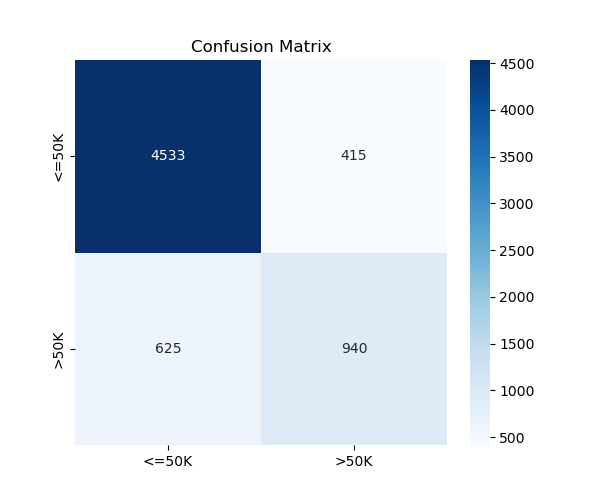
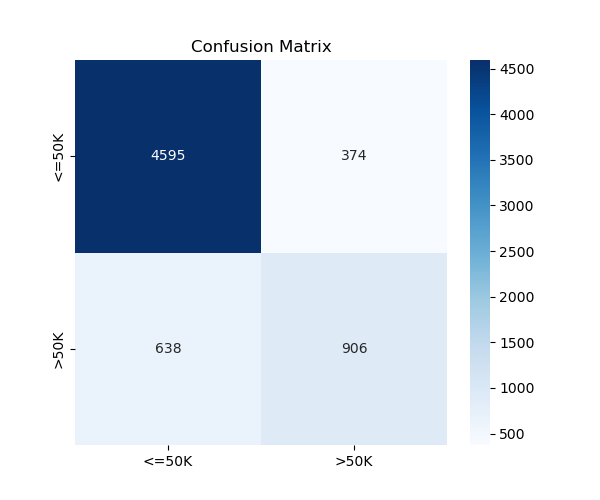
实验二改进代码(更多信息)

diff --git a/exp2/code/main.py b/exp2/code/main.py
@@ -5,23 +5,25 @@ import seaborn as sns
 import os
 import pickle
 from sklearn.metrics import confusion_matrix
+from sklearn.decomposition import PCA
 
-# 确保模型保存目录存在
 if not os.path.exists('../model'):
     os.makedirs('../model')
 
 
-# ================= 1. 数据预处理 =================
+# 数据预处理
 def preprocess_data(train_path, test_path):
-    print("正在加载和预处理数据...")
+    print("正在加载和预处理数据 (Optimized LDA Mode)...")
     df_train = pd.read_csv(train_path)
     df_test = pd.read_csv(test_path)
 
     def clean_df(df):
+        # 去除字符串空格
         cat_columns = df.select_dtypes(include=['object']).columns
         for col in cat_columns:
             df[col] = df[col].apply(lambda x: x.strip() if isinstance(x, str) else x)
 
+        # 填充缺失值
         df.replace('?', np.nan, inplace=True)
         for col in df.columns:
             if df[col].dtype == 'object':
@@ -29,35 +31,47 @@ def preprocess_data(train_path, test_path):
             else:
                 df[col] = df[col].fillna(df[col].mean())
 
-        # 优化：去除 fnlwgt
+        # 去除 fnlwgt 噪音
         if 'fnlwgt' in df.columns:
             df = df.drop('fnlwgt', axis=1)
 
-        # 优化：对数变换，让数据分布更接近高斯分布 (实验核心目的)
+        # Log变换
         for col in ['capital_gain', 'capital_loss']:
             if col in df.columns:
                 df[col] = np.log1p(df[col])
+
+        # 5. 合并稀有类别
+        if 'native_country' in df.columns:
+            df['native_country'] = df['native_country'].apply(
+                lambda x: 'United-States' if x == 'United-States' else 'Other')
+
         return df
 
     df_train = clean_df(df_train)
     df_test = clean_df(df_test)
 
+    # 提取标签
     y_train = df_train['income'].apply(lambda x: 1 if x == '>50K' else 0).values
     X_train_raw = df_train.drop('income', axis=1)
 
-    # 对齐特征
+    # 合并数据以统一 One-Hot 编码
     X_train_raw['is_train'] = 1
     df_test['is_train'] = 0
     full_data = pd.concat([X_train_raw, df_test], axis=0)
 
+    # 去除 education
     if 'education' in full_data.columns:
         full_data = full_data.drop('education', axis=1)
 
     continuous_cols = ['age', 'education_num', 'capital_gain', 'capital_loss', 'hours_per_week']
     categorical_cols = [c for c in full_data.columns if c not in continuous_cols and c != 'is_train']
 
+    # One-Hot Encoding
     full_data_encoded = pd.get_dummies(full_data, columns=categorical_cols)
     full_data_encoded = full_data_encoded.astype(float)
+
+    # 获取特征名称
+    feature_names = full_data_encoded.drop('is_train', axis=1).columns.tolist()
 
     # 标准化
     for col in continuous_cols:
@@ -66,13 +80,14 @@ def preprocess_data(train_path, test_path):
             std = full_data_encoded[col].std()
             full_data_encoded[col] = (full_data_encoded[col] - mean) / (std + 1e-8)
 
+    # 拆分回训练集和测试集
     X_train = full_data_encoded[full_data_encoded['is_train'] == 1].drop('is_train', axis=1).values
     X_test = full_data_encoded[full_data_encoded['is_train'] == 0].drop('is_train', axis=1).values
 
-    return X_train, y_train, X_test
+    return X_train, y_train, X_test, feature_names
 
 
-# ================= 2. 概率生成模型类 (含 Loss 计算) =================
+# 概率生成模型
 class ProbabilisticGenerativeModel:
     def __init__(self):
         self.w = None
@@ -83,7 +98,6 @@ class ProbabilisticGenerativeModel:
         self.phi = None
 
     def fit(self, X, y):
-        # 1. 统计高斯分布参数 (mu, sigma)
         N = X.shape[0]
         D = X.shape[1]
         X1 = X[y == 1]
@@ -93,53 +107,107 @@ class ProbabilisticGenerativeModel:
         self.mu1 = np.mean(X1, axis=0)
         self.mu2 = np.mean(X2, axis=0)
 
-        # 共享协方差矩阵 (LDA)
+        # 共享协方差矩阵
         X1_centered = X1 - self.mu1
         X2_centered = X2 - self.mu2
         X_centered = np.vstack((X1_centered, X2_centered))
 
         self.sigma = np.dot(X_centered.T, X_centered) / N
-        self.sigma += np.eye(D) * 1e-5  # 防止奇异矩阵
+        self.sigma += np.eye(D) * 1e-4
 
         inv_sigma = np.linalg.inv(self.sigma)
 
-        # 2. 计算权重 w 和 偏置 b (Closed-form solution)
+        # 计算权重 w 和 偏置 b
         self.w = np.dot(inv_sigma, self.mu1 - self.mu2)
+
         term1 = -0.5 * np.dot(np.dot(self.mu1.T, inv_sigma), self.mu1)
         term2 = 0.5 * np.dot(np.dot(self.mu2.T, inv_sigma), self.mu2)
         term3 = np.log(self.phi / (1 - self.phi))
         self.b = term1 + term2 + term3
 
     def predict_proba(self, X):
-        # 计算 Sigmoid 概率 P(y=1|x) = 1 / (1 + exp(-z))
         z = np.dot(X, self.w) + self.b
-        # 限制 z 的范围防止 exp 溢出
         z = np.clip(z, -100, 100)
         return 1 / (1 + np.exp(-z))
 
     def predict(self, X):
-        # 如果 z > 0 (即 P > 0.5), 预测为 1
         z = np.dot(X, self.w) + self.b
         return np.where(z > 0, 1, 0)
 
     def calculate_loss(self, X, y):
-        # 计算交叉熵损失 (Cross Entropy Loss)
-        # Loss = -1/N * sum( y*log(p) + (1-y)*log(1-p) )
-        y_pred_proba = self.predict_proba(X)
-        epsilon = 1e-15  # 防止 log(0)
-        y_pred_proba = np.clip(y_pred_proba, epsilon, 1 - epsilon)
-        loss = -np.mean(y * np.log(y_pred_proba) + (1 - y) * np.log(1 - y_pred_proba))
-        return loss
+        p = self.predict_proba(X)
+        p = np.clip(p, 1e-15, 1 - 1e-15)
+        return -np.mean(y * np.log(p) + (1 - y) * np.log(1 - p))
 
     def save(self, filepath):
-        params = {'w': self.w, 'b': self.b, 'mu1': self.mu1, 'mu2': self.mu2, 'sigma': self.sigma}
         with open(filepath, 'wb') as f:
-            pickle.dump(params, f)
+            pickle.dump(self.__dict__, f)
 
 
-# ================= 3. 主程序 =================
+def plot_class_distribution(y_train):
+    plt.figure(figsize=(6, 4))
+    sns.countplot(x=y_train, hue=y_train, palette='viridis', legend=False)
+    plt.xticks([0, 1], ['<=50K', '>50K'])
+    plt.title('Class Distribution in Training Set')
+    plt.xlabel('Income Class')
+    plt.ylabel('Count')
+    plt.tight_layout()
+    plt.savefig('class_distribution_bar.png')
+    print("Class distribution bar chart saved.")
+
+
+def plot_feature_importance(model, feature_names):
+    if model.w is None:
+        return
+
+    weights = model.w
+    fi_df = pd.DataFrame({'Feature': feature_names, 'Weight': weights})
+    fi_df['AbsWeight'] = fi_df['Weight'].abs()
+
+    top_features = fi_df.sort_values(by='AbsWeight', ascending=False).head(15)
+
+    plt.figure(figsize=(10, 8))
+    sns.barplot(x='Weight', y='Feature', hue='Feature', data=top_features, palette='coolwarm', legend=False)
+    plt.title('Top 15 Feature Importance (LDA Weights)')
+    plt.xlabel('Weight (Positive means correlates with >50K)')
+    plt.tight_layout()
+    plt.savefig('feature_importance_bar.png')
+    print("Feature importance bar chart saved.")
+
+
+def plot_probability_histogram(model, X_val, y_val):
+    probs = model.predict_proba(X_val)
+
+    plt.figure(figsize=(8, 6))
+    plt.hist(probs[y_val == 0], bins=50, alpha=0.5, label='<=50K', color='blue')
+    plt.hist(probs[y_val == 1], bins=50, alpha=0.5, label='>50K', color='red')
+    plt.title('Distribution of Predicted Probabilities (>50K)')
+    plt.xlabel('Predicted Probability')
+    plt.ylabel('Frequency')
+    plt.legend()
+    plt.tight_layout()
+    plt.savefig('probability_histogram.png')
+    print("Probability histogram saved.")
+
+
+def plot_scatter_pca(X_val, y_val):
+    # PCA to 2D
+    pca = PCA(n_components=2)
+    X_pca = pca.fit_transform(X_val)
+
+    plt.figure(figsize=(10, 8))
+    scatter = plt.scatter(X_pca[:, 0], X_pca[:, 1], c=y_val, cmap='coolwarm', alpha=0.5, s=10)
+    plt.colorbar(scatter, ticks=[0, 1], label='Income Class (0: <=50K, 1: >50K)')
+    plt.title('Data Distribution (PCA Projection)')
+    plt.xlabel('Principal Component 1')
+    plt.ylabel('Principal Component 2')
+    plt.tight_layout()
+    plt.savefig('scatter_plot_pca.png')
+    print("Scatter plot (PCA) saved.")
+
+
 if __name__ == "__main__":
-    X_train, y_train, X_test = preprocess_data('../data/train.csv', '../data/test.csv')
+    X_train, y_train, X_test, feature_names = preprocess_data('../data/train.csv', '../data/test.csv')
 
     # 划分验证集
     indices = np.arange(X_train.shape[0])
@@ -149,78 +217,48 @@ if __name__ == "__main__":
     X_sub_train, y_sub_train = X_train[train_idx], y_train[train_idx]
     X_val, y_val = X_train[val_idx], y_train[val_idx]
 
-    # --- A. 学习曲线 (带 Loss 打印) ---
-    print("\n开始模拟训练过程 (Learning Curve)...")
-    train_sizes = np.linspace(0.1, 1.0, 10)
-    train_accs = []
-    val_accs = []
+    # 类别分布柱状图
+    plot_class_distribution(y_train)
 
-    print(f"{'Data %':<10} | {'Train Acc':<12} | {'Val Acc':<12} | {'Train Loss':<12} | {'Val Loss':<12}")
-    print("-" * 70)
-
-    for frac in train_sizes:
-        size = int(frac * X_sub_train.shape[0])
-        X_part = X_sub_train[:size]
-        y_part = y_sub_train[:size]
-
-        temp_model = ProbabilisticGenerativeModel()
-        temp_model.fit(X_part, y_part)
-
-        # Acc
-        t_acc = np.mean(temp_model.predict(X_part) == y_part)
-        v_acc = np.mean(temp_model.predict(X_val) == y_val)
-        train_accs.append(t_acc)
-        val_accs.append(v_acc)
-
-        # Loss (现在有了!)
-        t_loss = temp_model.calculate_loss(X_part, y_part)
-        v_loss = temp_model.calculate_loss(X_val, y_val)
-
-        print(f"{frac * 100:5.0f}%     | {t_acc:.4f}       | {v_acc:.4f}       | {t_loss:.4f}       | {v_loss:.4f}")
-
-    # 绘图
-    plt.figure(figsize=(10, 6))
-    plt.plot(train_sizes * 100, train_accs, 'o-', label='Training Accuracy')
-    plt.plot(train_sizes * 100, val_accs, 'o-', label='Validation Accuracy')
-    plt.xlabel('Training Data Percentage (%)')
-    plt.ylabel('Accuracy')
-    plt.title('Learning Curve: Probabilistic Generative Model')
-    plt.legend()
-    plt.grid(True)
-    plt.savefig('learning_curve.png')
-    print("\n学习曲线已保存为 learning_curve.png")
-
-    # --- B. 训练最终模型 ---
-    print("\n正在全量数据上训练最终模型...")
+    # 训练模型
+    print("\nTraining Model...")
     model = ProbabilisticGenerativeModel()
     model.fit(X_sub_train, y_sub_train)
-    model.save('../model/generative_model.pkl')
 
-    final_train_loss = model.calculate_loss(X_sub_train, y_sub_train)
-    final_val_loss = model.calculate_loss(X_val, y_val)
-    print(f"最终训练集 Loss: {final_train_loss:.4f}")
-    print(f"最终验证集 Loss: {final_val_loss:.4f}")
+    # 验证
+    acc = np.mean(model.predict(X_val) == y_val)
+    print(f"Validation Accuracy: {acc * 100:.2f}%")
 
-    # --- C. 混淆矩阵 ---
-    y_pred_val = model.predict(X_val)
-    cm = confusion_matrix(y_val, y_pred_val)
+    # 特征重要性柱状图
+    plot_feature_importance(model, feature_names)
+
+    # 概率直方图
+    plot_probability_histogram(model, X_val, y_val)
+
+    # 散点图
+    plot_scatter_pca(X_val, y_val)
+
+    # 混淆矩阵
+    cm = confusion_matrix(y_val, model.predict(X_val))
     plt.figure(figsize=(6, 5))
     sns.heatmap(cm, annot=True, fmt='d', cmap='Blues',
                 xticklabels=['<=50K', '>50K'], yticklabels=['<=50K', '>50K'])
     plt.title('Confusion Matrix')
     plt.savefig('confusion_matrix.png')
 
-    # --- D. 预测并生成 Submission (修正ID从1开始) ---
-    print("\n正在生成 submission.csv ...")
+    # 生成 Submission
+    print("\nGenerating Submission...")
     model_full = ProbabilisticGenerativeModel()
     model_full.fit(X_train, y_train)
+
+    model_full.save('../model/generative_model.pkl')
+    print("Model saved to model/generative_model.pkl")
+
     test_preds = model_full.predict(X_test)
 
     submission = pd.DataFrame({
-        'id': range(1, len(test_preds) + 1),  # 修正: ID 从 1 开始
+        'id': range(1, len(test_preds) + 1),
         'label': test_preds
     })
     submission.to_csv('submission.csv', index=False)
-    print(f"完成。文件已保存，共 {len(submission)} 行。")
-    print("前5行预览:")
-    print(submission.head())
+    print("Done.")
